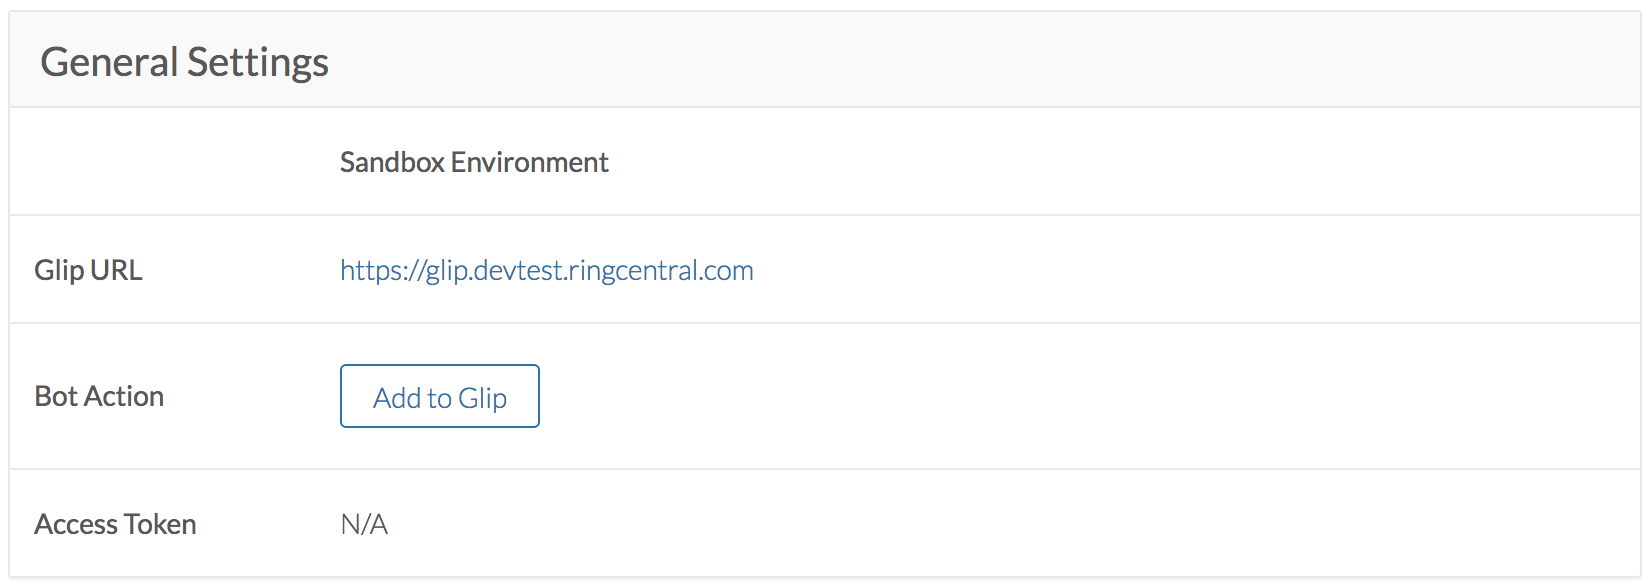
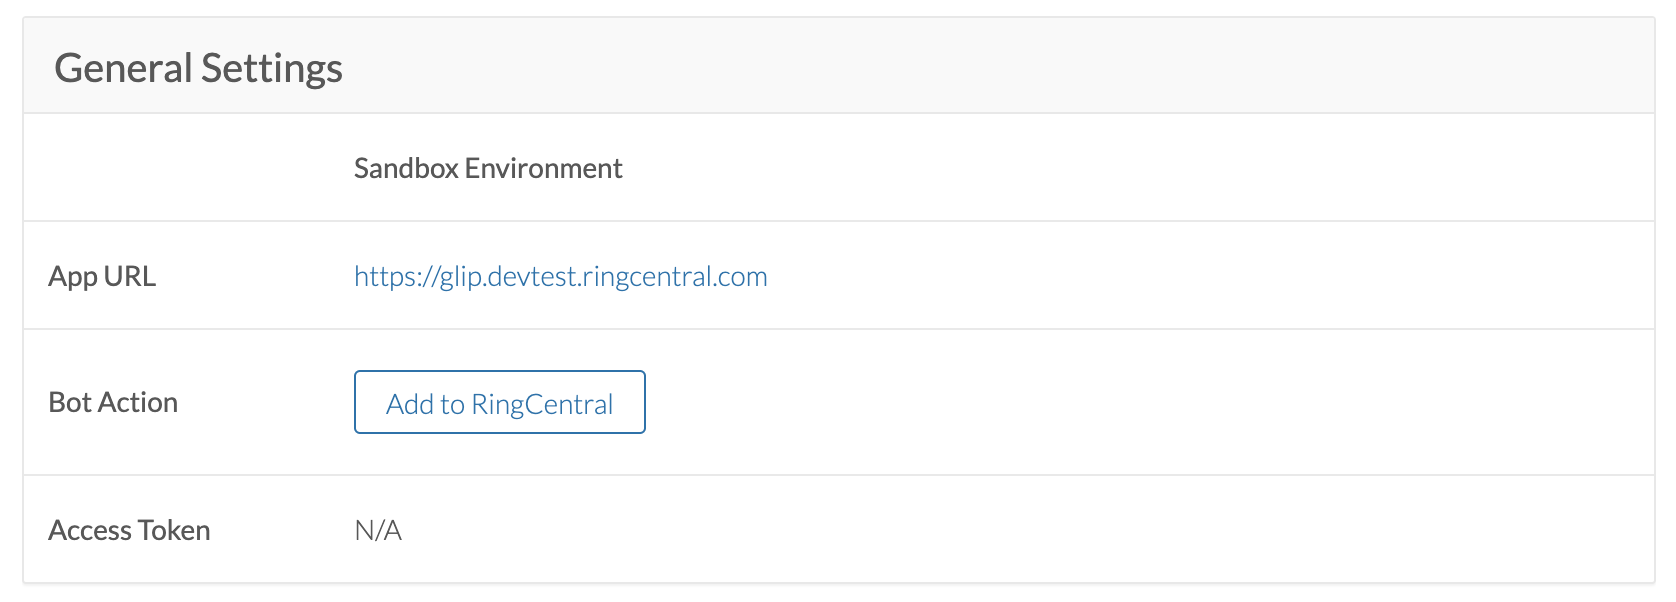
Updated instructions on how to create a bot. Lots of bug fixes and copy changes for added clarity.

diff --git a/docs/team-messaging/manual/node.md b/docs/team-messaging/manual/node.md
@@ -1,37 +1,40 @@
 no_breadcrumb:true
 
-# Build a RingCentral Bot Using Node
+# How to build a RingCentral bot using Javascript
 
-This guide will take you through the process of building your first bot using RingCentral's [Javascript Bot Framework](https://github.com/ringcentral/ringcentral-chatbot-js). Let's begin! 
+This guide will take you through the process of building your first bot using RingCentral's [Javascript Bot Framework](https://github.com/ringcentral/ringcentral-chatbot-js). The bot we will build is very simple, but will help demonstrate the basic design pattern of setting up a server to respond to a user speaking to the bot via RingCentral team messaging. Let's begin!
 
 ## Setup Your Project
 
 To begin, create a project directory and install some prerequisites.
 
 ```bash
-$ mkdir my-bot
-$ cd my-bot
-$ yarn add ringcentral-chatbot sqlite3
-$ yarn add --dev dotenv ngrok
+% mkdir my-bot
+% cd my-bot
+% yarn add ringcentral-chatbot sqlite3
+% yarn add --dev dotenv ngrok
+% touch db.sqlite
 ```
 
 ## Start a Proxy
 
-Bots operate via a server which RingCentral communicates with. To allow RingCentral to send messages to your bot, we need to setup a proxy/tunnel first.
+Bots operate via a server which RingCentral communicates with over HTTP. To enable RingCentral to send messages to the bot you are building on your local development machine, we need to setup a proxy/tunnel first. 
 
 ```bash
 $ ./node_modules/.bin/ngrok http 3000
 ```
 
-When the proxy has started, you will see a screen on which is a URL you will need to make note of.
+When the proxy has started, you will see something similar to the following:
 
 <img src="../ngrok.png" class="img-fluid" />
 
+Make note of the https forwarding URL, we will use that later when configuring your bot. 
+
 ## Create an App
 
-With our proxy running, we now have all the information we need to create an app in the RingCentral Developer Portal. This can be done quickly by clicking the "Create Chat Bot App" button below. Just click the button, enter a name and description if you choose, and click the "Create" button. If you do not yet have a RingCentral account, you will be prompted to create one.
+With our proxy running, we now have all the information we need to create an app in the RingCentral Developer Portal. This can be done quickly by clicking the "Create Bot App" button below. Just click the button, enter a name and description if you choose, and click the "Create" button. If you do not yet have a RingCentral account, you will be prompted to create one.
 
-<a target="_new" href="https://developer.ringcentral.com/new-app?name=Chatbot+Quick+Start+App&desc=A+simple+app+to+demo+creating+a+chat+bot+on+RingCentral&public=false&type=ServerOther&carriers=7710,7310,3420&permissions=SubscriptionWebhook,Glip,EditExtensions&redirectUri=" class="btn btn-primary">Create Chat Bot App</a>
+<a target="_new" href="https://developer.ringcentral.com/new-app?name=Chatbot+Quick+Start+App&desc=A+simple+app+to+demo+creating+a+chat+bot+on+RingCentral&public=false&type=ServerBot&carriers=7710,7310,3420&permissions=ReadAccounts,SubscriptionWebhook,Glip,EditExtensions&redirectUri=" class="btn btn-primary">Create Bot App</a>
 <a class="btn-link btn-collapse" data-toggle="collapse" href="#create-app-instructions" role="button" aria-expanded="false" aria-controls="create-app-instructions">Show detailed instructions</a>
 
 <div class="collapse" id="create-app-instructions">
@@ -39,26 +42,27 @@ With our proxy running, we now have all the information we need to create an app
 <li><a href="https://developer.ringcentral.com/login.html#/">Login or create an account</a> if you have not done so already.</li>
 <li>Go to Console/Apps and click 'Create App' button.</li>
 <li>Select "Bot App for Team Messaging" under "What type of app are you creating?"</li>
-<li>Select "Other Non-UI" under "Where will you be calling the API from?"
 <li>Select "Only members of my organization/company" under "Who will be authorized to access your app?"
 <li>On the second page of the create app wizard, enter your app's name and description. Then select the following permissions:
   <ul>
-    <li>Glip</li>
-    <li>Webhook Subscriptions</li>
     <li>Edit Extensions</li>
+    <li>Glip</li>
+    <li>Read Accounts</li>
+    <li>Webhook Subscriptions</li>
   </ul>
   </li>
-<li>Leave "OAuth Redirect URI" blank for now. We will come back and edit that later.</li>
 </ol>
 </div>
 
-!!! info "Enter your Redirect URI"
-    Upon clicking the Create Bot App button, you will be taken to a form to complete the app creation process. Be sure to enter in the Redirect URI using the address of your proxy.
-    <img src="../redirecturi.png" class="img-fluid" />
+### Enter your Redirect URI
 
-When you are done, you will be taken to the app's dashboard. Make note of the Client ID and Client Secret. We will be using those momentarily.
+Upon clicking the Create Bot App button, you will be taken to a form to complete the app creation process. Be sure to enter in the Redirect URI using the address of your proxy, with `/bot/oauth` appended to the end. For example:
 
-## Edit .env
+<img src="../redirecturi.png" class="img-fluid" style="max-width: 600px" />
+
+When you are done, you will be taken to the app's dashboard. Make note of your app's Client ID and Client Secret. We will be using those in the next step.
+
+## Create and edit .env
 
 Create a file called `.env` in your project folder. Then copy and paste the contents below. Be sure to add/substitute values accordingly.
 
@@ -67,27 +71,18 @@ RINGCENTRAL_SERVER=https://platform.devtest.ringcentral.com
 RINGCENTRAL_CHATBOT_ADMIN_USERNAME=admin
 RINGCENTRAL_CHATBOT_ADMIN_PASSWORD=admin
 RINGCENTRAL_CHATBOT_EXPRESS_PORT=3000
-RINGCENTRAL_CHATBOT_CLIENT_ID=
-RINGCENTRAL_CHATBOT_CLIENT_SECRET=
-RINGCENTRAL_CHATBOT_SERVER=https://<chatbot-server>
-RINGCENTRAL_CHATBOT_DATABASE_CONNECTION_URI=
+RINGCENTRAL_CHATBOT_CLIENT_ID=<ENTER CLIENT ID FOR BOT APP>
+RINGCENTRAL_CHATBOT_CLIENT_SECRET=<ENTER CLIENT SECRET FOR BOT APP>
+RINGCENTRAL_CHATBOT_SERVER=<ENTER NGROK URL OF YOUR LOCAL SERVER>
+RINGCENTRAL_CHATBOT_DATABASE_CONNECTION_URI=<FULL PATH TO db.sqlite>
 ```
 
-## Initialize Your Database
+!!! tip "Configuring your database"
+    In a subsequent step we will be initializing a simple SQLite database. Before we can do that, we need to tell the bot framework where to find your database file. When you setup your project directory above, you touched a file called `db.sqlite`. In your `.env` file, enter the full and complete path to that file. The URL will look like this (the three forward slashed "///" is intentional): 
 
-Bots need to be stateful in order to maintain webhook and notification subscriptions, and other information. In this guide we use sqlite3, which must first be initialized. Edit your `.env` and set the connection URI to a full path to a file called `db.sqlite` in your project directory.
+    `RINGCENTRAL_CHATBOT_DATABASE_CONNECTION_URI=sqlite:///full/path/to/my-bot/db.sqlite`
 
-```
-RINGCENTRAL_CHATBOT_DATABASE_CONNECTION_URI=sqlite:////full/path/to/my-bot/db.sqlite
-```
-
-Then use the bot framework to setup your database.
-
-```bash
-$ curl -X PUT -u admin:admin https://<CHATBOT_SERVER>/admin/setup-database
-```
-
-## Create Your Bot
+## Create your bot server
 
 We are now ready for the code to power your bot. Create a file called `express.js` in your project folder using the contents below.
 
@@ -104,25 +99,35 @@ const app = createApp(handle)
 app.listen(process.env.RINGCENTRAL_CHATBOT_EXPRESS_PORT)
 ```
 
-## Start Your Bot Server
+## Start your bot server
+
+The code above is all you need to create a simple RingCentral bot. Let's start your bot server.
 
 ```bash
 $ node -r dotenv/config express.js
 ```
 
-## Add Your Bot to RingCentral
+## Initialize your database
 
-Login to your [Developer Console](https://developer.ringcentral.com/), click on your bot in the application listing, and navigate to the Bot tab. Then click the button labeled "Add to Glip."
+With your bot server running, let's continue the setup process by initializing your database. This is done by calling a URL running on your bot server like so:
 
-<img class="img-fluid" src="../add-to-glip.png">
+```bash
+$ curl -X PUT -u admin:admin https://<CHATBOT_SERVER>/admin/setup-database
+```
 
-Then follow the on-screen instructions.
+## Add your bot to RingCentral
+
+Login to your [Developer Console](https://developer.ringcentral.com/), click on your bot in the application listing, and navigate to the Bot tab. Then click the button labeled "Add to RingCentral."
+
+<img class="img-fluid" src="../add-to-glip.png" style="max-width: 600px">
+
+Then follow the on-screen instructions and pick a name for your bot.
 
 ## Test Your Bot
 
 Your bot will appear as a user inside of the RingCentral App. Login to the [RingCentral Team Messaging sandbox](https://glip.devtest.ringcentral.com/) and start a chat with the bot app you just added.
 
-Type "ping" and see what happens.
+Type "ping" and see what happens. If successful, the bot should respond simply with "pong." 
 
 ## Publish Your App
 
